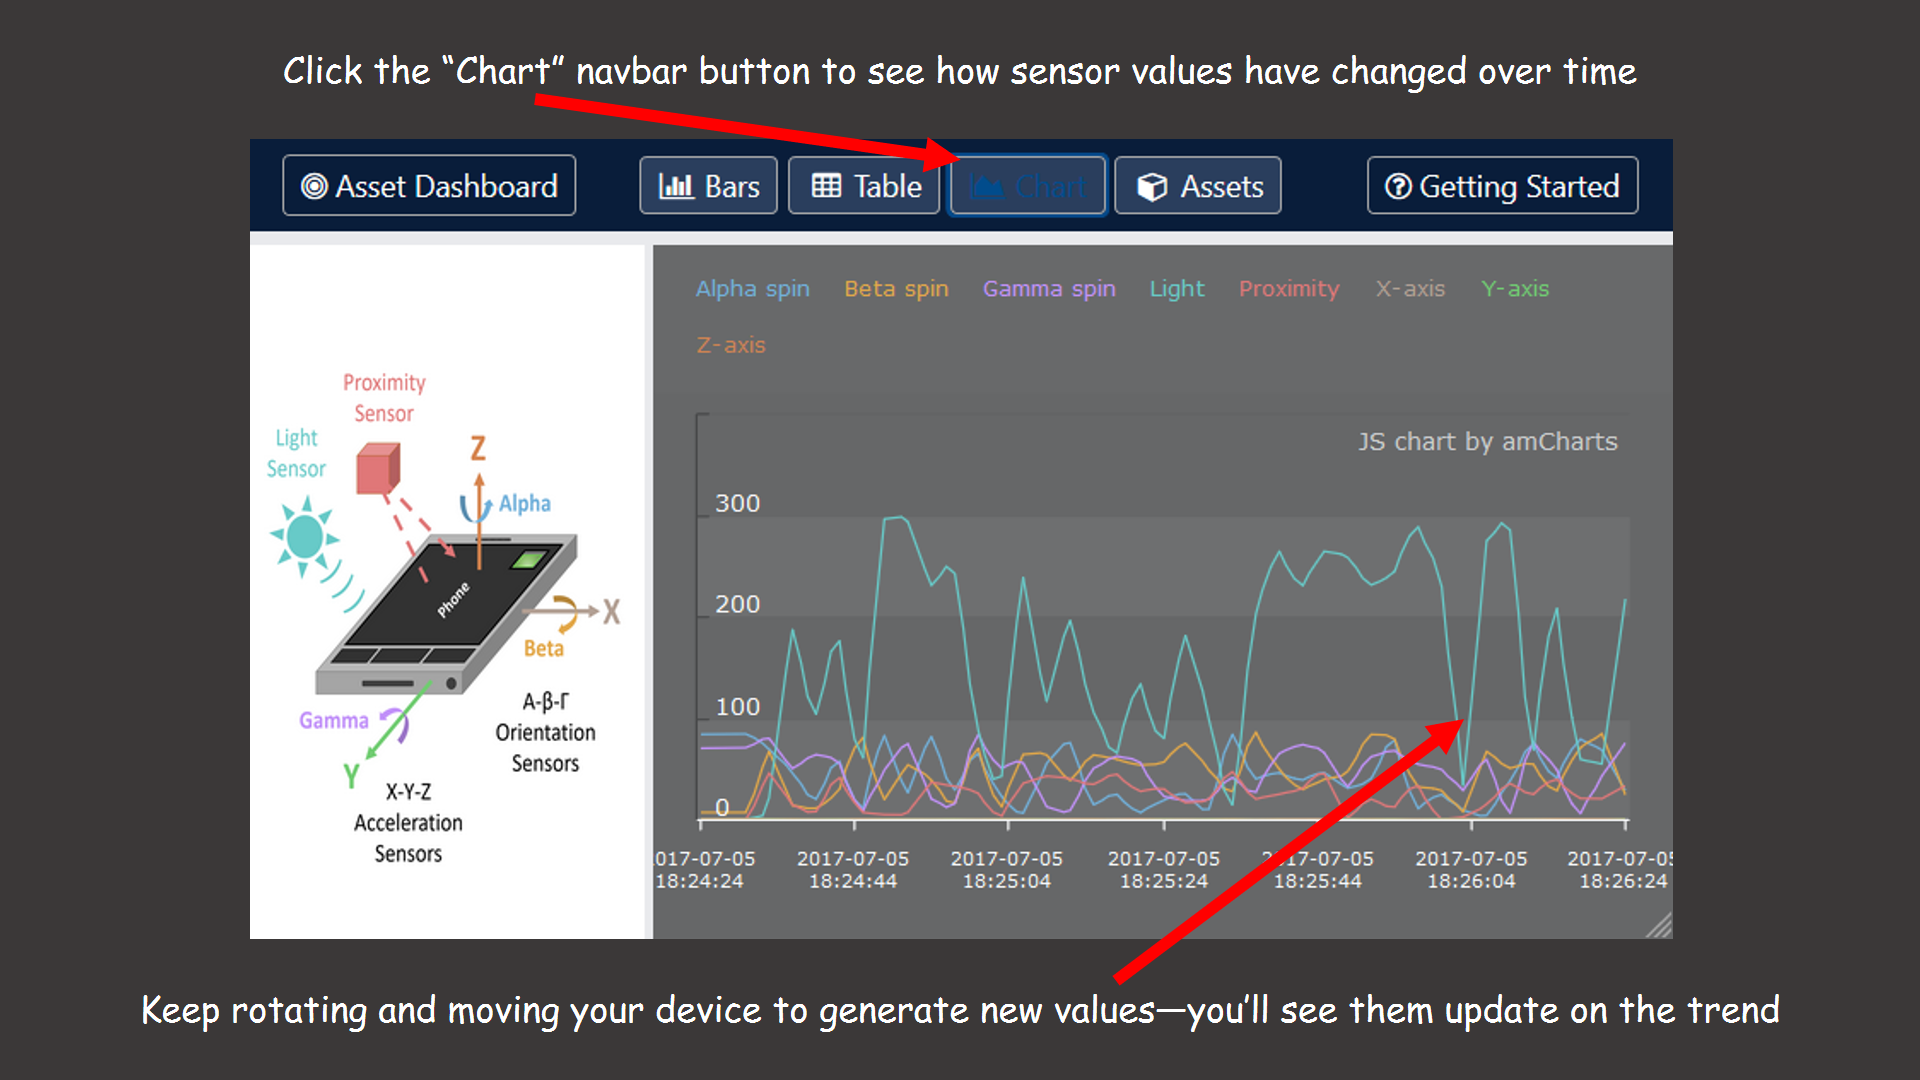
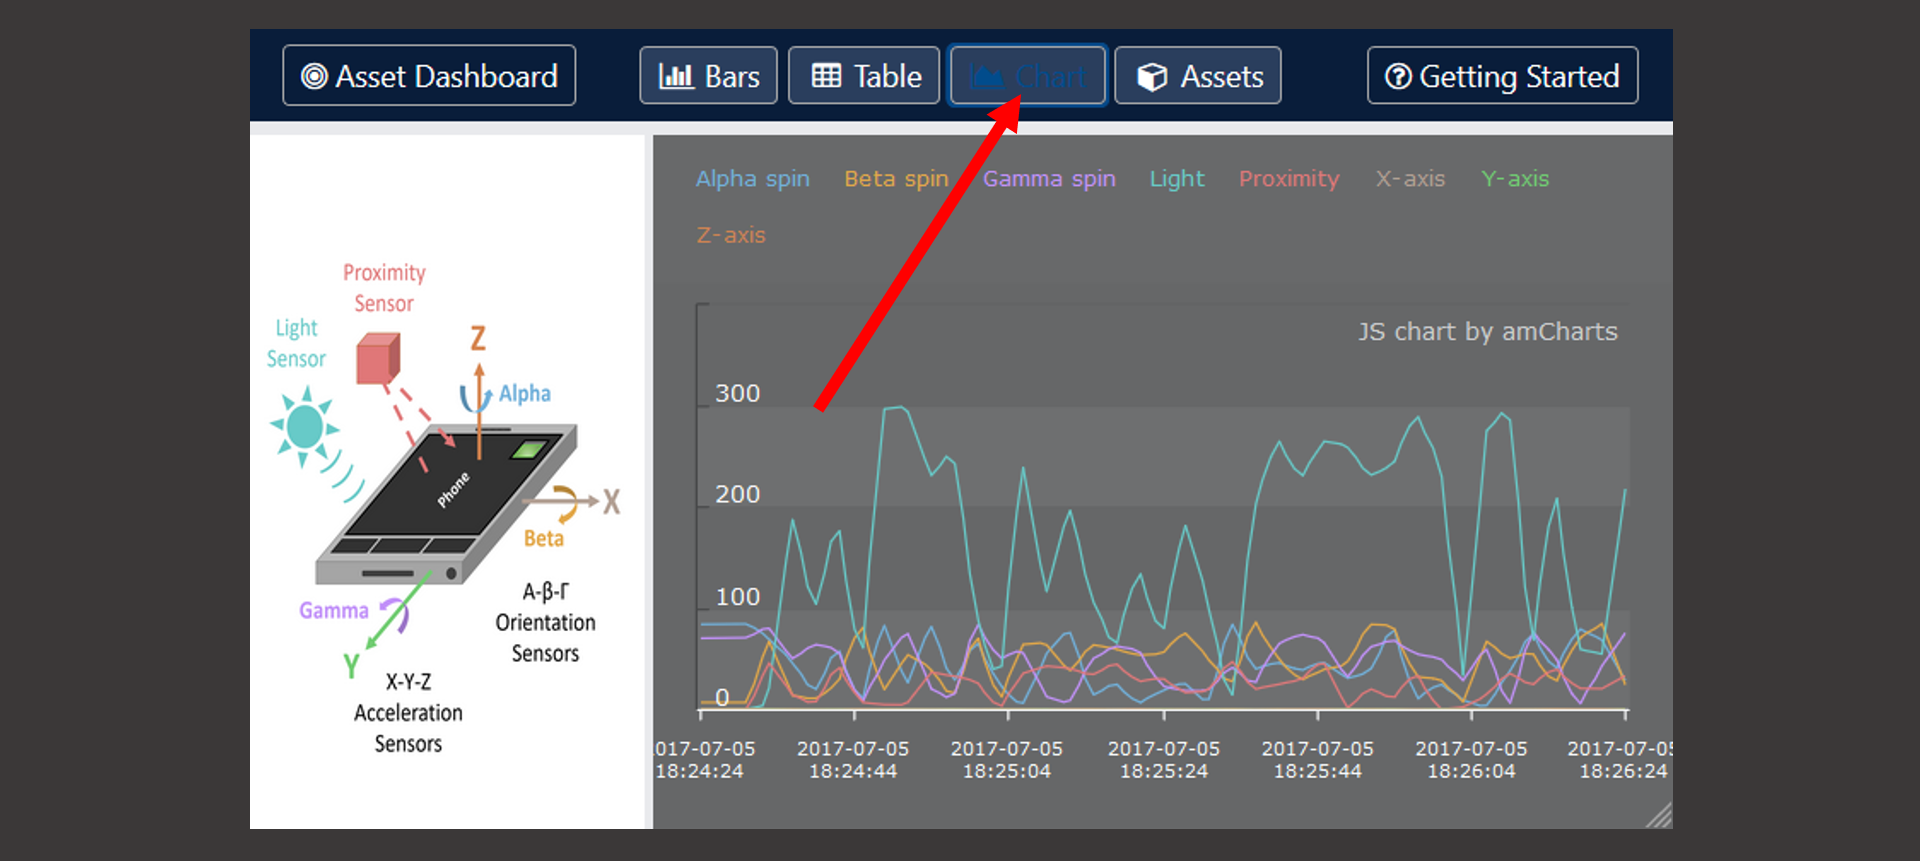
Updated getting started page

diff --git a/IOT Demo/IOT Demo/App/Views/gettingStartedView.html b/IOT Demo/IOT Demo/App/Views/gettingStartedView.html
@@ -10,19 +10,71 @@
         <li data-target="#myCarousel" data-slide-to="6"></li>
         <li data-target="#myCarousel" data-slide-to="7"></li>
 		<li data-target="#myCarousel" data-slide-to="8"></li>
+        <li data-target="#myCarousel" data-slide-to="9"></li>
     </ol>
 
     <!-- Wrapper for slides -->
-    <div class="carousel-inner" role="listbox" style="height:100%;width:100%">
-        <div style="height:100%;width:100%" class="carousel-item active"><img class="img-fluid" src="../../Images/Slide (1).png"></div>
-        <div style="height:100%;width:100%" class="carousel-item"><img class="img-fluid" src="../../Images/Slide (2).png"></div>
-        <div style="height:100%;width:100%" class="carousel-item"><img class="img-fluid" src="../../Images/Slide (3).png"></div>
-        <div style="height:100%;width:100%" class="carousel-item"><img class="img-fluid" src="../../Images/Slide (4).png"></div>
-        <div style="height:100%;width:100%" class="carousel-item"><img class="img-fluid" src="../../Images/Slide (5).png"></div>
-        <div style="height:100%;width:100%" class="carousel-item"><img class="img-fluid" src="../../Images/Slide (6).png"></div>
-        <div style="height:100%;width:100%" class="carousel-item"><img class="img-fluid" src="../../Images/Slide (7).png"></div>
-		<div style="height:100%;width:100%" class="carousel-item"><img class="img-fluid" src="../../Images/Slide (7b).png"></div>		
-        <div style="height:100%;width:100%" class="carousel-item" onclick="window.location.href = '#/ar/Asset%201/gauges/';"><img class="img-fluid" src="../../Images/Slide (8).png"></div>
+    <div class="carousel-inner" role="listbox" style="height:100%;width:100%;font-size:14px;">
+        <div style="height:100%;width:100%" class="carousel-item active">
+            <div class="carousel-caption">
+                This app displays live sensor data from a PI System that is installed on an IoT gateway. The app collects that data from sensors on your phone and writes that data to the gateway PI System.
+            </div>
+            <img class="img-fluid" src="../../Images/Slide (1).png">
+        </div>
+        <div style="height:100%;width:100%" class="carousel-item">
+            <div class="carousel-caption">
+                A pop-up will instruct you to move your device to create interesting motion data. Click “Close” to exit the pop-up begin using the app.
+            </div>
+            <img class="img-fluid" src="../../Images/Slide (2).png">
+        </div>
+        <div style="height:100%;width:100%" class="carousel-item">
+            <div class="carousel-caption">
+                The schematic shows sensors on your device read by this app. The chart shows live values from your device that were written to the gateway.
+            </div>
+            <img class="img-fluid" src="../../Images/Slide (3).png">
+        </div>
+        <div style="height:100%;width:100%" class="carousel-item">
+            <div class="carousel-caption">
+                Click the “Table” button on the navbar to see a table list of raw sensor values and calculations from the gateway PI System.
+            </div>
+            <img class="img-fluid" src="../../Images/Slide (4).png">
+        </div>
+        <div style="height:100%;width:100%" class="carousel-item">
+            <div class="carousel-caption">
+                Click the “Chart” navbar button to see how sensor values change over time. Rotate and move your device to generate new values for the chart.
+            </div>
+            <img class="img-fluid" src="../../Images/Slide (5).png">
+        </div>
+        <div style="height:100%;width:100%" class="carousel-item">
+            <div class="carousel-caption">
+                Click “Asset Dashboard” to see top-level KPIs, or click “View Assets” below to see a list of data sources connected to the gateway.
+            </div>
+            <img class="img-fluid" src="../../Images/Slide (6).png">
+        </div>
+        <div style="height:100%;width:100%" class="carousel-item">
+            <div class="carousel-caption">
+                Click “Getting Started” to launch this tutorial again. Click “View Data” for “Asset 1” to return to Asset 1, or click “View Data” for another asset.
+            </div>
+            <img class="img-fluid" src="../../Images/Slide (7).png">
+        </div>
+		<div style="height:100%;width:100%" class="carousel-item">
+            <div class="carousel-caption">
+                Some gateways receive data from WISE 4012 wireless IoT sensor modules. In the Assets View, click “WISE-4012E 1” to see live data from this module.
+            </div>
+            <img class="img-fluid" src="../../Images/Slide (7b).png">
+        </div>	
+        <div style="height:100%;width:100%" class="carousel-item">
+            <div class="carousel-caption">
+                Rotate a WISE 4012 input board potentiometers to raise or lower the Analog Input voltage values, or toggle its switches to change the Digital Input values from low to high.
+            </div>
+            <img class="img-fluid" src="../../Images/Slide (7c).png">
+        </div>        	
+        <div style="height:100%;width:100%" class="carousel-item" onclick="window.location.href = '#/ar/Asset%201/gauges/';">
+            <div class="carousel-caption">
+                Click to get started using this web app! You’ll next see a live visualization of sensor data from your phone.
+            </div>
+            <img class="img-fluid" src="../../Images/Slide (8).png">
+        </div>
     </div>
 
     <!-- Left and right controls -->

diff --git a/IOT Demo/IOT Demo/index.html b/IOT Demo/IOT Demo/index.html
@@ -49,7 +49,7 @@
                 </div>
                 <div class="modal-body">
                     <p>Your device and/or browser does not fully support gathering device-level proximity sensor, light sensor, accelerometer, and/or gyro data (to perform a sensor health check, click <b><a href="" onclick="$('#sensorValuesModal').modal()">here</a></b>).  Simulated sensor values will be generated where needed to mimic a compatible device.</p>
-                    <p>Sending accelerometer and gyro data from your client device to the gateway PI System requires viewing this web application on a mobile device, and specifically, sending proximity and light sensor data requires viewing this application on a mobile device using the Mozilla Firefox web browser.</p>
+                    <p>This app was designed to be viewed in the Mozilla Firefox web browser.</p>
                     <p>To download and install the Firefox web browser on an Android device, click <b><a href="https://play.google.com/store/apps/details?id=org.mozilla.firefox&hl=en">here</a></b>; to do the same for an iOS device, click <b><a href="https://itunes.apple.com/us/app/firefox-web-browser/id989804926?mt=8">here</a></b>.</p>
                     <p>After installing Firefox on your mobile device, re-launch this web application within the Firefox web browser.</p>
 					<p><b>Other data sources that are connected to the IoT gateway (such as WISE and Phidgets units) will still continue to work as expected.</b></p>
@@ -102,7 +102,7 @@
                     <button type="button" class="close" data-dismiss="modal">&times;</button>
                 </div>
                 <div class="modal-body" id="">
-					Hello!  It appears that you are holding your device in portrait (vertical) orientation.  This app is designed to be best viewed in landscape (horizontal) orientation; please rotate your device 90 degrees into landscape mode--and then refresh this web page--to ensure the best experience.
+					This app was designed to be viewed in landscape (horizontal) orientation; please rotate your device 90 degrees into landscape mode--and then refresh this web page--to ensure the best experience.
 				</div>
                 <div class="modal-footer">
                     <button type="button" class="btn btn-default" data-dismiss="modal">Close</button>
@@ -120,7 +120,7 @@
                     <button type="button" class="close" data-dismiss="modal">&times;</button>
                 </div>
                 <div class="modal-body">
-                    This app was built to run in full-screen mode.  Click <b><a href="" onclick="turnOnFullScreen()">here</a></b> to turn on full-screen mode.
+                    This app was designed to run in full-screen mode.  Click <b><a href="" onclick="turnOnFullScreen()">here</a></b> to turn on full-screen mode.
                 </div>
                 <div class="modal-footer">
                     <button type="button" class="btn btn-default" data-dismiss="modal">Close</button>

diff --git a/IOT Demo/IOT Demo/App/Views/chartAndTableWrapperView.html b/IOT Demo/IOT Demo/App/Views/chartAndTableWrapperView.html
@@ -96,8 +96,7 @@
                     <button type="button" class="close" data-dismiss="modal">&times;</button>
                 </div>
                 <div class="modal-body" id="shakeMeModalBodyText">
-					The bar chart that you see now is driven by sensor data collected from your own mobile device!  Try shaking your device to generate new X, Y, and Z accelerometer data--or try generating new light level and proximity data by covering up the front of the phone with your hand. That new sensor data will be written to the gateway PI Server and then visualized here on this chart! 
-				</div>
+					The bar chart is driven by sensor data collected from your own smart phone!  Try shaking your device to generate new X, Y, and Z accelerometer data!  Try covering up your phone screen to see the light level and proximity level drop, and uncover the phone to see the light and proximity bars grow again. Rotate your phone to see the alpha, beta, and gamma values change on the plot, and shake your phone to see the X, Y, and Z axis motion increase!
                 <div class="modal-footer">
                     <button type="button" class="btn btn-default" data-dismiss="modal">Close</button>
                 </div>

diff --git a/IOT Demo/IOT Demo/App/app.css b/IOT Demo/IOT Demo/App/app.css
@@ -33,7 +33,7 @@ html, body {
 .btn {
 	border-color:darkgray;
 }
-.btn-custom-1 {
-}
-.btn-custom-2 {
+.carousel-caption {
+	background-color: rgba(59,56,56, 0.9);
+	
 }
